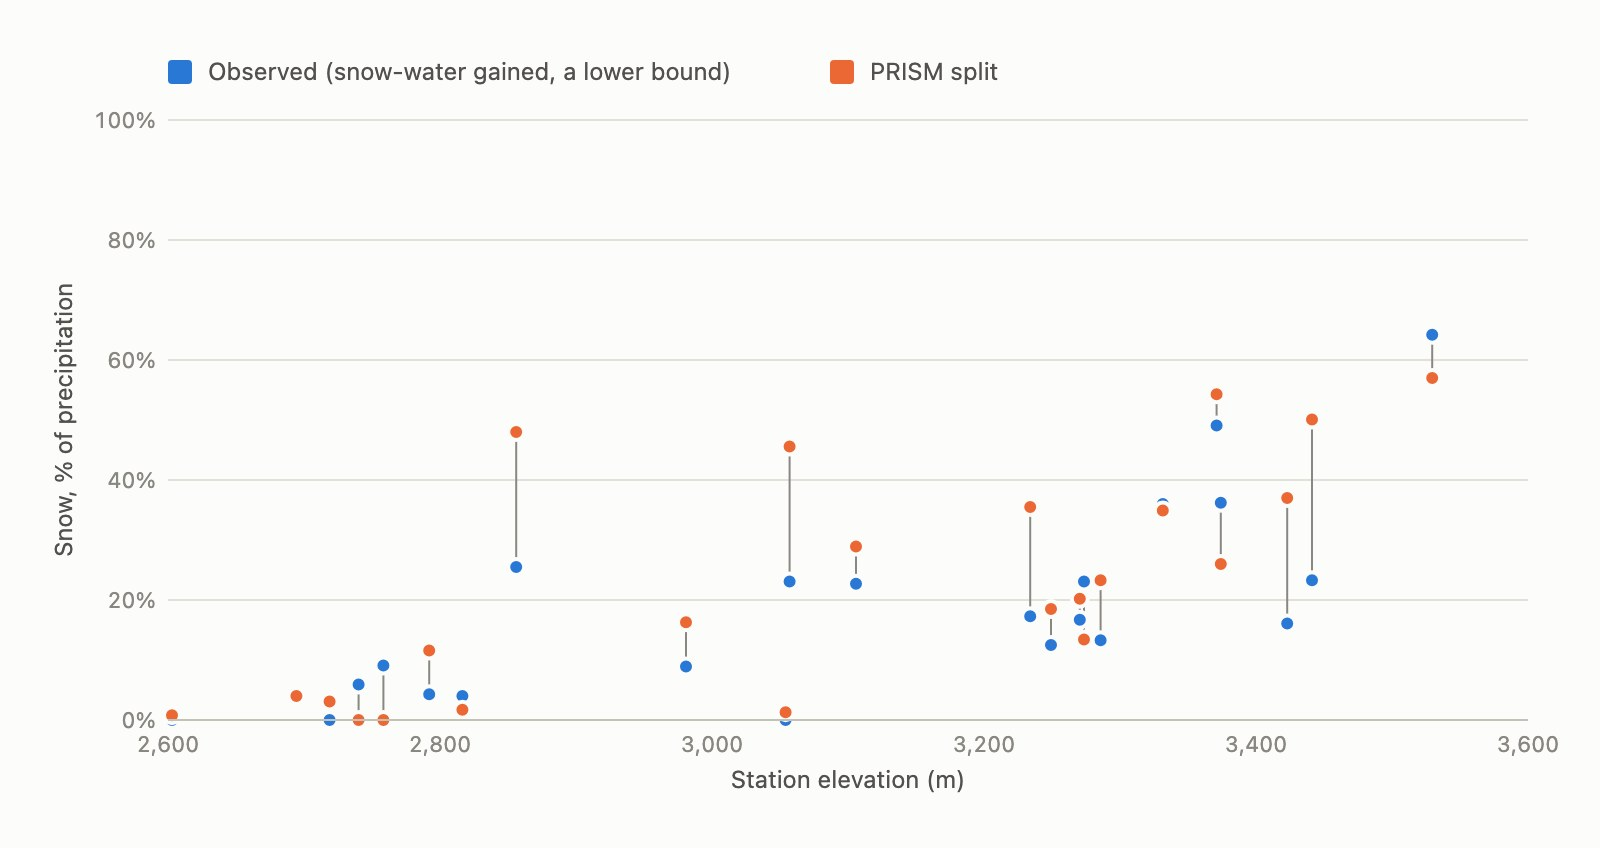
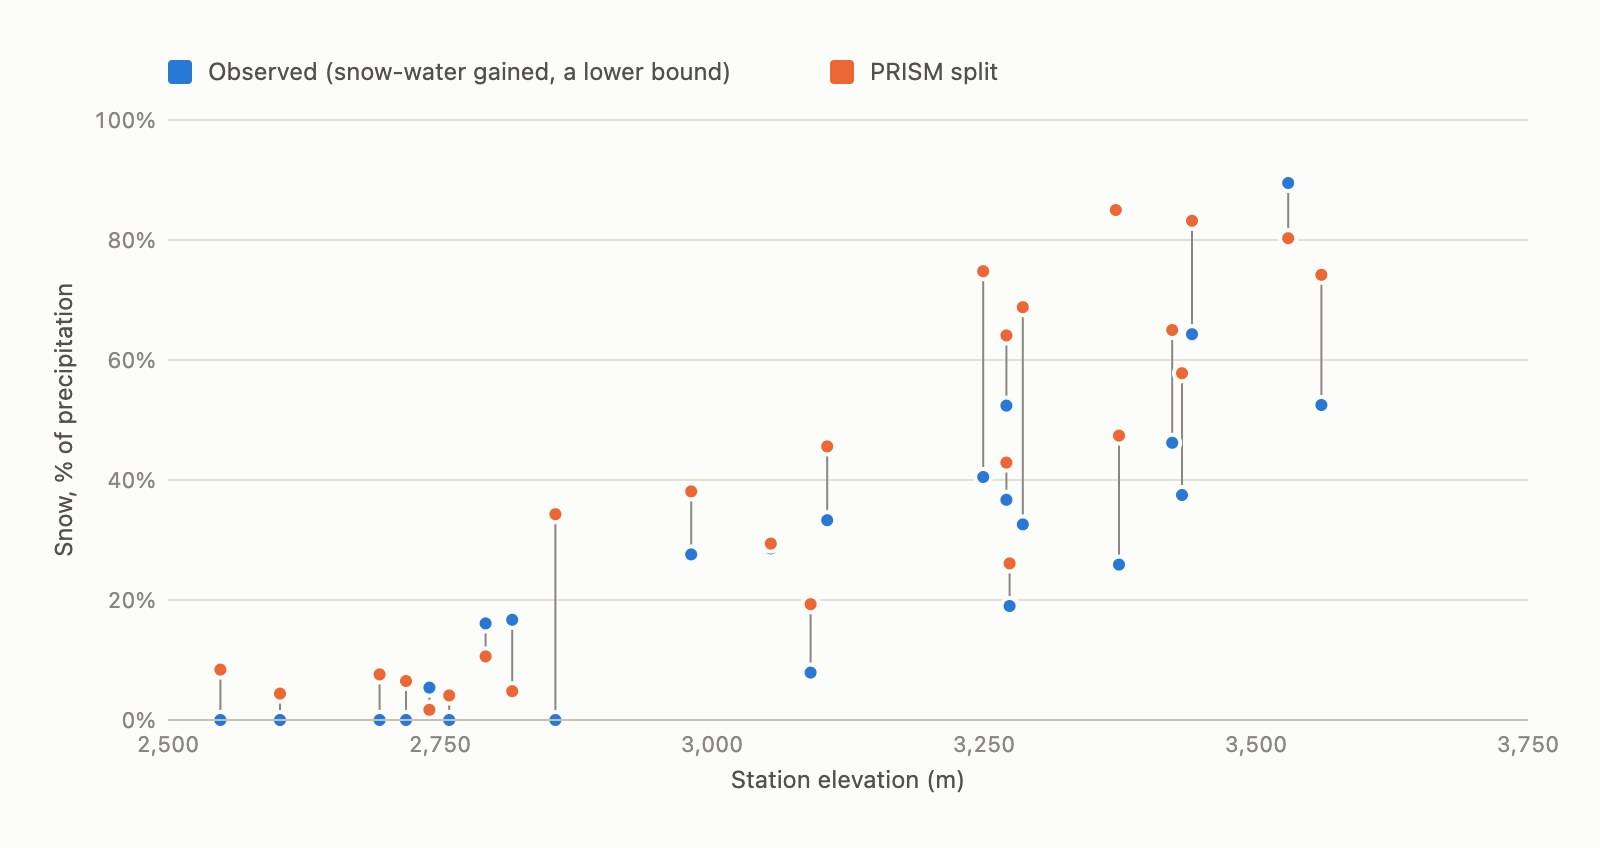
PRISM Storm Analysis: checks from the Nov 1-3 storm report
Replace the "Checking the numbers" charts (timeline, gauges, runoff, snow,
and uncertainty) with the figures from the Nov 1-3 report, and rewrite
their captions and alt text from it. Gauge peaks are given in MST, and the
runoff caption notes the ratios will be rerun once the flow record covers
the recession.

diff --git a/src/content/projects/prism-storm-analysis.md b/src/content/projects/prism-storm-analysis.md
@@ -81,28 +81,28 @@ figureSets:
         src: ../../assets/projects/prism-storm-analysis/hex-nov02.jpg
         alt: "Hex map for November 2, with tall columns along the northeastern edge and a smaller cluster east of Chinle"
   - title: "Checking the numbers"
-    intro: "A gridded total is an estimate. Each run compares it with what was measured on the ground, then reports the volume with a range instead of a single number."
+    intro: "A gridded total is an estimate. Each run compares it with what was measured on the ground, then reports the volume with a range instead of a single number. These checks are from the run for the November 1–3 storm; all three days are still PRISM's first release."
     figures:
       - title: "When it fell, and how the rivers answered"
-        caption: "Basin precipitation per PRISM day above 15-minute discharge at three USGS gauges. The shaded area above the baseflow line is the event runoff."
+        caption: "Basin precipitation per PRISM day, split into rain and snow, above 15-minute discharge at four USGS gauges. In local time (MST), the San Juan at Pagosa Springs peaked at 11,200 cfs on the evening of November 1, the Animas at Durango at 13,000 cfs the next morning, and the San Juan at Four Corners at 35,300 cfs on the evening of November 3. The shaded area above the baseflow line is the event runoff."
         src: ../../assets/projects/prism-storm-analysis/chart-timeline.jpg
-        alt: "Daily basin precipitation bars peaking at 31 mm on October 23, above discharge curves for the San Juan at Pagosa Springs and the Animas at Durango and Tall Timber"
+        alt: "Daily basin precipitation bars for November 1–3, tallest at 33 mm on November 2, above discharge curves for the San Juan at Pagosa Springs, the Animas at Durango, and the San Juan at Four Corners and near Bluff, each rising between November 2 and 4"
       - title: "PRISM against rain gauges"
-        caption: "Storm totals at 88 gauges in and around the basin. PRISM runs 4% below the gauges overall and 0.5% above the seven gauges it did not use, with r = 0.96."
+        caption: "Storm totals at 73 gauges in the basin and a 10 km buffer. PRISM runs 1.3% below the gauges overall, with r = 0.96, and 10.6% below the six gauges it did not use. Most gauges are PRISM inputs, so the overall agreement is optimistic; the independent gauges are the fairer test."
         src: ../../assets/projects/prism-storm-analysis/chart-gauges.jpg
-        alt: "Scatter plot of PRISM storm totals against gauge totals, clustered along the 1:1 line"
+        alt: "Scatter plot of PRISM storm totals against gauge totals from 30 to 105 mm, clustered along the 1:1 line, with a few independent gauges below it"
       - title: "Where the water went"
-        caption: "Runoff ratio at every USGS gauge in the basin, colored by how much dam storage sits upstream. The thin lines divide runoff by rain only, leaving out snow."
+        caption: "Runoff ratio at 30 USGS gauges in the basin, colored by how much dam storage sits upstream. Unregulated mountain streams returned the most, 0.38 at Pagosa Springs; the regulated main stem returned under 0.1. The thin lines divide runoff by rain only, leaving out snow. The flow record still ends before the recession is over, so these ratios will be rerun."
         src: ../../assets/projects/prism-storm-analysis/chart-runoff.jpg
-        alt: "Runoff ratio ranges for about 30 gauges, low for gauges below large reservoirs and higher for unregulated mountain streams"
+        alt: "Runoff ratio ranges for 30 gauges, low for gauges below large reservoirs and higher for unregulated mountain streams, with rain-only ratios well above the all-precipitation ratios near Silverton"
       - title: "Rain or snow"
-        caption: "PRISM's rain and snow split, from daily mean temperature, against the snow-water gained at 23 SNOTEL stations."
+        caption: "PRISM's rain and snow split, from daily mean temperature, against the snow-water gained at 25 SNOTEL stations. The gain is a lower bound, since some snow melts, and PRISM's snow comes to 1.37 times the observed gain."
         src: ../../assets/projects/prism-storm-analysis/chart-snow.jpg
-        alt: "Snow share of precipitation against station elevation, rising from near zero at 2,600 m to about 60% at 3,500 m, for observed and PRISM values"
+        alt: "Snow share of precipitation against station elevation, mostly under 20% below 2,900 m and 20% to 90% above 3,250 m, with PRISM's split above the observed share at most stations"
       - title: "Volume and its uncertainty"
-        caption: "The range combines the gauge comparison, the basin boundary, and PRISM's revisions so far: 4.63 to 4.92 km³."
+        caption: "The range combines the gauge comparison and the basin boundary: 2.83 to 3.17 km³ around the reported 2.833 km³. Nearly all of it comes from the independent gauges, where PRISM ran low. Revisions are not assessed yet, since no day has a second release."
         src: ../../assets/projects/prism-storm-analysis/chart-uncertainty.jpg
-        alt: "Bars showing each uncertainty component, with a total range from -1.3% to +4.9% of the reported volume"
+        alt: "Bars showing each uncertainty component: gauges from +0% to +11.8%, the boundary near zero, revisions and other products not assessed, and a total range from +0% to +11.9% of the reported volume"
 ---
 
 <div class="part-overview">
